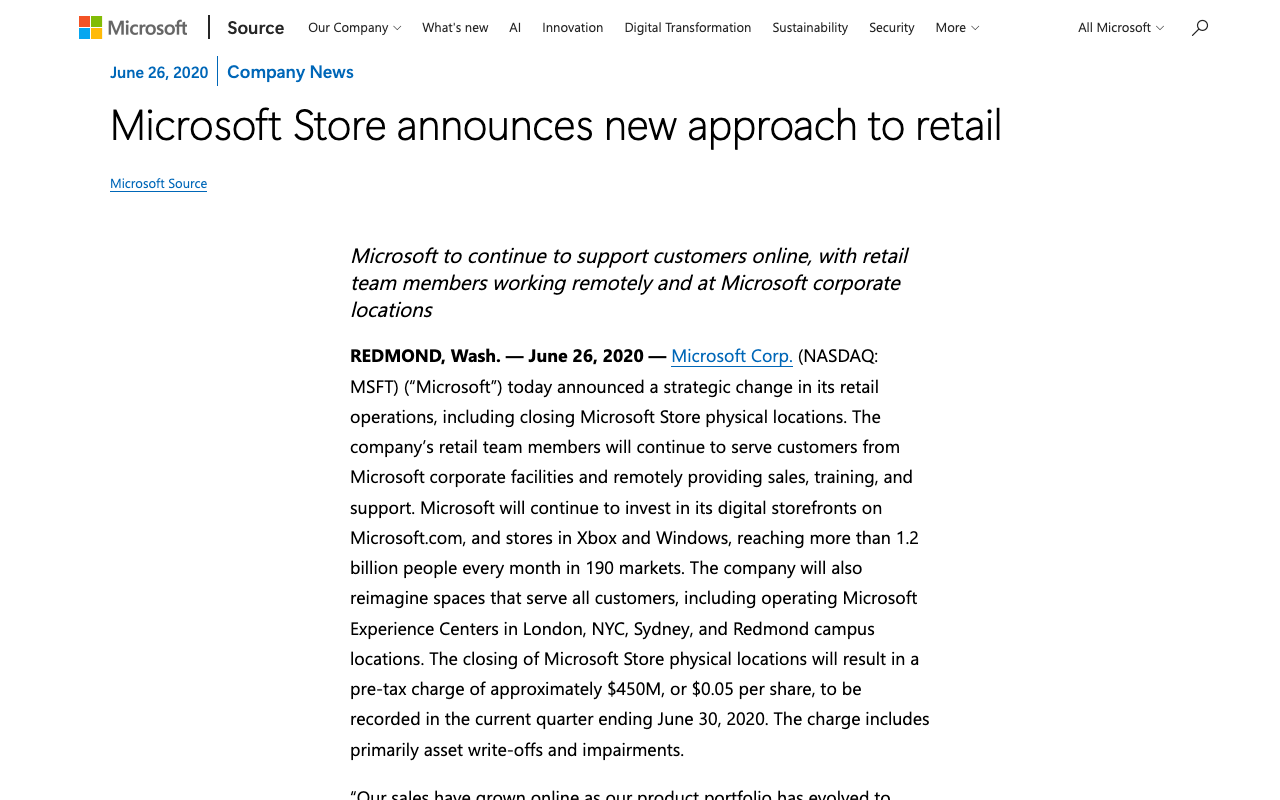
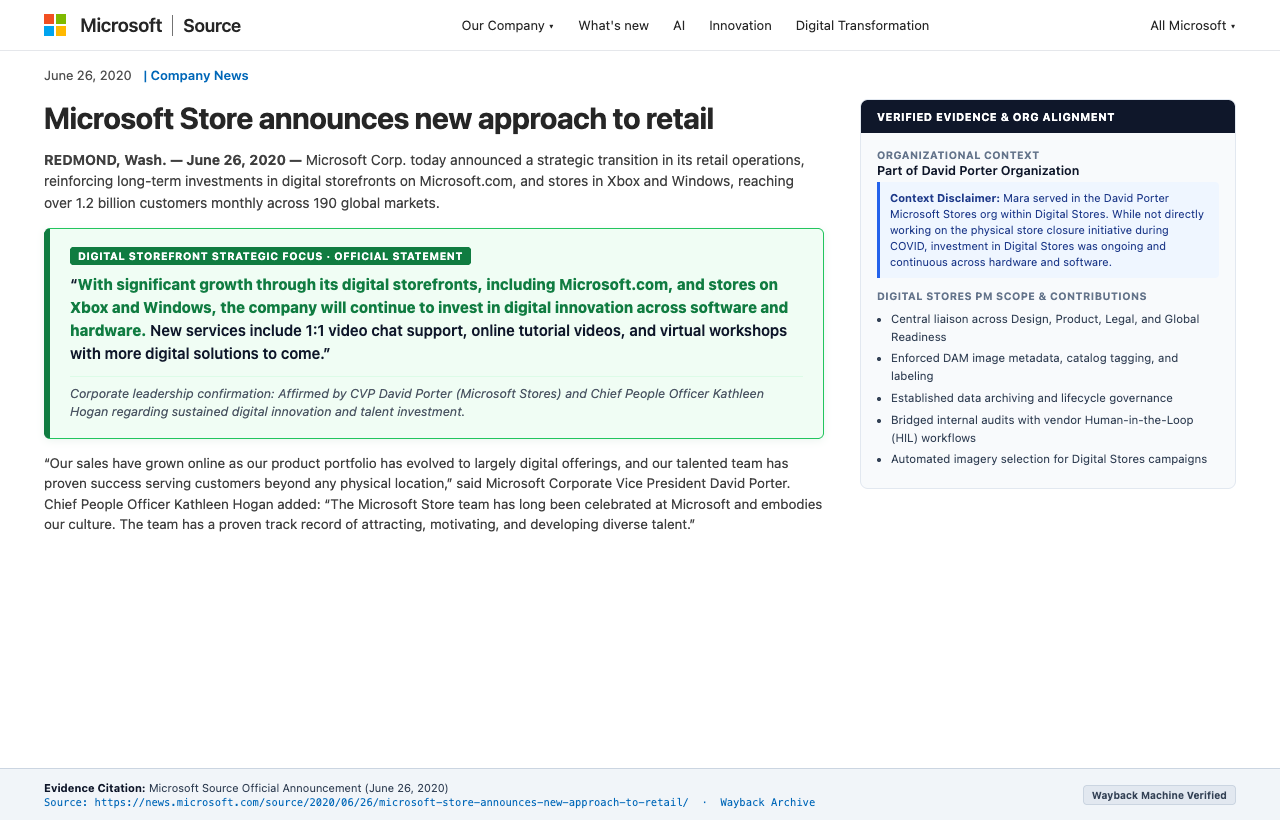
feat(career): Reorganize evidence across Section 6 and 8, update TechTarget screenshot, and add David Porter/Kathleen Hogan digital stores disclaimer

diff --git a/frontend/src/data/career/en.js b/frontend/src/data/career/en.js
@@ -1905,7 +1905,7 @@ export const timelineItems = [
         linkLabel: 'LocWorld40 Content Management Archive',
       },
       {
-        text: 'Digital Stores Globalization & DAM Governance: Served as Globalization Program Manager for Microsoft Stores within Microsoft Digital Stores, acting as the central liaison across Design, Product, Legal, Global Readiness, and regional partners to operationalize compliant global campaign delivery. Partnered cross-functionally to enforce DAM imagery catalog metadata, sorting criteria, and labeling aligned with Global Readiness and Legal requirements; established end-to-end data archiving and lifecycle governance bridging internal quality audits/approvals with vendor Human-in-the-Loop (HIL) workflows, training, and sorting standards; and drove tooling and process optimizations, including automated imagery selection for Digital Stores campaigns.',
+        text: 'Digital Stores Globalization & DAM Governance: Served as Globalization Program Manager for Microsoft Stores within the David Porter organization in Microsoft Digital Stores, acting as central liaison across Design, Product, Legal, Global Readiness, and regional partners. While not working on the subsequent COVID-era physical store closures, investment in Digital Stores was continuous; as affirmed by CVP David Porter and CPO Kathleen Hogan, Microsoft prioritized digital innovation across software and hardware. Enforced DAM imagery catalog metadata, sorting criteria, and labeling; established data archiving and lifecycle governance bridging internal quality audits with vendor Human-in-the-Loop (HIL) workflows; and drove tooling optimizations including automated imagery selection.',
         url: 'https://news.microsoft.com/source/2020/06/26/microsoft-store-announces-new-approach-to-retail/',
         linkLabel: 'Microsoft Store Retail Transformation Announcement',
       },
@@ -2206,7 +2206,7 @@ export const timelineItems = [
           defaultOpen: false,
           columns: 1,
           summary:
-            'Served as Globalization Program Manager for Microsoft Stores within Microsoft Digital Stores, acting as the central liaison across Design, Product, Legal, Global Readiness, and regional partners to operationalize compliant global campaign delivery. Partnered cross-functionally to enforce DAM imagery catalog metadata, sorting criteria, and labeling aligned with Global Readiness and Legal requirements; established end-to-end data archiving and lifecycle governance bridging internal quality audits/approvals with vendor Human-in-the-Loop (HIL) workflows, training, and sorting standards; and drove tooling and process optimizations, including automated imagery selection for Digital Stores campaigns.',
+            'Served as Globalization Program Manager for Microsoft Stores within the David Porter organization in Microsoft Digital Stores, acting as the central liaison across Design, Product, Legal, Global Readiness, and regional partners to operationalize compliant global campaign delivery. While not directly working on the subsequent COVID-era initiative to shut down physical retail locations (announced June 26, 2020), investment in Digital Stores was continuous and central to the retail strategy. As affirmed by Microsoft CVP David Porter and Chief People Officer Kathleen Hogan, "the company will continue to invest in digital innovation across software and hardware" through digital storefronts on Microsoft.com, Windows, and Xbox. In this role, enforced DAM imagery catalog metadata, sorting criteria, and labeling aligned with Global Readiness and Legal requirements; established end-to-end data archiving and lifecycle governance bridging internal quality audits/approvals with vendor Human-in-the-Loop (HIL) workflows, training, and sorting standards; and drove tooling and process optimizations, including automated imagery selection for Digital Stores campaigns.',
           links: [
             {
               label: 'Microsoft News: Microsoft Store Announces New Approach to Retail',
@@ -2223,13 +2223,13 @@ export const timelineItems = [
             {
               marketTag: 'MICROSOFT NEWS · DIGITAL STOREFRONT EVOLUTION · JUN 26, 2020',
               src: '/evidence/msft-news-store-digital-retail.png',
-              alt: 'Microsoft Store announces new approach to retail featuring digital storefront transformation',
+              alt: 'Microsoft Store announces new approach to retail highlighting continuous investment in digital storefront innovation across software and hardware',
               caption: 'Microsoft Store Digital Transformation Announcement',
               linkLabel: 'Announcement Archive (Wayback)',
               url: 'https://web.archive.org/web/20261105200125/https://news.microsoft.com/source/2020/06/26/microsoft-store-announces-new-approach-to-retail/',
               fit: 'contain',
               expandLabel: 'Inspect Retail Transformation Announcement',
-              note: 'Public announcement illustrating Microsoft Store transition to digital storefronts serving over 1.2 billion people.',
+              note: 'Official Microsoft announcement affirming continuous investment in digital storefront innovation across software and hardware. (Context Disclaimer: Served in the David Porter Microsoft Stores org within Digital Stores; did not work on the physical retail closures that occurred during COVID).',
             },
           ],
         },
@@ -2238,7 +2238,7 @@ export const timelineItems = [
           title: '6. Consumer Go-To-Market Strategy & Global Seasonal Campaigns',
           badge: 'Consumer GTM System · Sim-Ship vs Phased Launches · Multi-Market Retail',
           defaultOpen: false,
-          columns: 2,
+          columns: 3,
           summary:
             'Supported the Microsoft Consumer Go-To-Market (GTM) strategy as Program Manager leading vendor partner teams to deliver seamless seasonal retail campaigns across all Microsoft Store countries and languages. Governed sim-ship vs phased international rollouts across Product, Marketing, Design, and Legal teams for Tier-1 commercial moments including Spring and Autumn hemisphere-adapted sales, Back to School, and Black Friday/Holiday. Partnered with Senior Leadership, GTM leads, and Data Analytics & Experimentation teams to optimize conversion, track global consumer impressions, and support record-setting digital commerce milestones across 200 markets.',
           snapshots: [
@@ -2269,24 +2269,6 @@ export const timelineItems = [
               expandLabel: 'Inspect Back to School Campaign',
               note: 'Tier-1 seasonal retail campaign execution across PC hardware, Surface, and Xbox gaming catalogs.',
             },
-            {
-              marketTag: 'COMMERCE IMPACT · FY19 RECORD-SETTING MOMENTUM',
-              src: '/evidence/msft-gtm-digital-gaming-momentum.png',
-              alt: 'Microsoft momentum slide showing $6B+ revenue, 23% Y/Y growth, and 22B gaming hours',
-              caption: 'Digital Gaming Commerce Momentum · $6B+ Revenue Impact',
-              fit: 'contain',
-              expandLabel: 'Inspect Gaming Commerce Momentum',
-              note: 'Record-setting digital store performance delivering 23% Y/Y revenue growth and outperforming market growth for 2 years.',
-            },
-            {
-              marketTag: 'NEXT-GEN PLATFORMS · PROJECT SCARLETT & XCLOUD',
-              src: '/evidence/msft-gtm-xbox-roadmap.png',
-              alt: 'Project Scarlett, Halo Infinite, Game Pass, and Project xCloud ecosystem readiness slide',
-              caption: 'Next-Decade Platform Initiatives · Ecosystem Alignment',
-              fit: 'contain',
-              expandLabel: 'Inspect Next-Decade Platform Initiatives',
-              note: 'Multi-product campaign readiness aligning Project Scarlett (Xbox Series X), Game Pass, and cloud gaming initiatives.',
-            },
           ],
         },
         {
@@ -2314,7 +2296,7 @@ export const timelineItems = [
           title: '8. One Microsoft Vision: Xbox Store Integration & Rebrand',
           badge: 'One Microsoft · Xbox Store Merger · Cross-Platform Rebrand Alignment',
           defaultOpen: false,
-          columns: 1,
+          columns: 3,
           summary:
             'Aligned with Satya Nadella’s "One Microsoft" enterprise vision, coordinated across partner teams and the Xbox organization as Program Manager to align the Xbox Store experience and rebrand it to the unified Microsoft Store. Conducted a comprehensive audit of Microsoft Stores across Windows OS, digital web, and the Xbox portal, partnering with Engineering to ensure consistent name rebrand alignment (from Office and Xbox Store to Microsoft Store) and maintain a cohesive look and feel across platforms to simplify the user experience, increase customer adoption, and optimize the consumer purchase funnel.',
           links: [
@@ -2340,6 +2322,24 @@ export const timelineItems = [
               fit: 'contain',
               expandLabel: 'Inspect TechTarget Xbox Store Merger Coverage',
               note: 'Industry report documenting the 2017 merger of the Xbox store into the Windows Store, rebranded as the unified Microsoft Store under the "One Microsoft" strategy.',
+            },
+            {
+              marketTag: 'COMMERCE IMPACT · FY19 RECORD-SETTING MOMENTUM',
+              src: '/evidence/msft-gtm-digital-gaming-momentum.png',
+              alt: 'Microsoft momentum slide showing $6B+ revenue, 23% Y/Y growth, and 22B gaming hours',
+              caption: 'Digital Gaming Commerce Momentum · $6B+ Revenue Impact',
+              fit: 'contain',
+              expandLabel: 'Inspect Gaming Commerce Momentum',
+              note: 'Record-setting digital store performance delivering 23% Y/Y revenue growth and outperforming market growth for 2 years.',
+            },
+            {
+              marketTag: 'NEXT-GEN PLATFORMS · PROJECT SCARLETT & XCLOUD',
+              src: '/evidence/msft-gtm-xbox-roadmap.png',
+              alt: 'Project Scarlett, Halo Infinite, Game Pass, and Project xCloud ecosystem readiness slide',
+              caption: 'Next-Decade Platform Initiatives · Ecosystem Alignment',
+              fit: 'contain',
+              expandLabel: 'Inspect Next-Decade Platform Initiatives',
+              note: 'Multi-product campaign readiness aligning Project Scarlett (Xbox Series X), Game Pass, and cloud gaming initiatives.',
             },
           ],
         },

diff --git a/frontend/src/data/career/career.test.js b/frontend/src/data/career/career.test.js
@@ -471,11 +471,11 @@ describe('career timeline placeholder dataset', () => {
       )
     ).toBe(true);
     expect(msft.evidence.sections[5].id).toBe('gtm-seasonal-campaigns');
-    expect(msft.evidence.sections[5].snapshots).toHaveLength(5);
+    expect(msft.evidence.sections[5].snapshots).toHaveLength(3);
     expect(msft.evidence.sections[6].id).toBe('adobe-partnership-integration');
     expect(msft.evidence.sections[6].snapshots).toHaveLength(1);
     expect(msft.evidence.sections[7].id).toBe('xbox-store-rebrand');
-    expect(msft.evidence.sections[7].snapshots).toHaveLength(1);
+    expect(msft.evidence.sections[7].snapshots).toHaveLength(3);
     expect(
       msft.evidence.sections[7].links.some((l) =>
         l.url.includes('techtarget.com/news/Microsoft-Store/851509')
